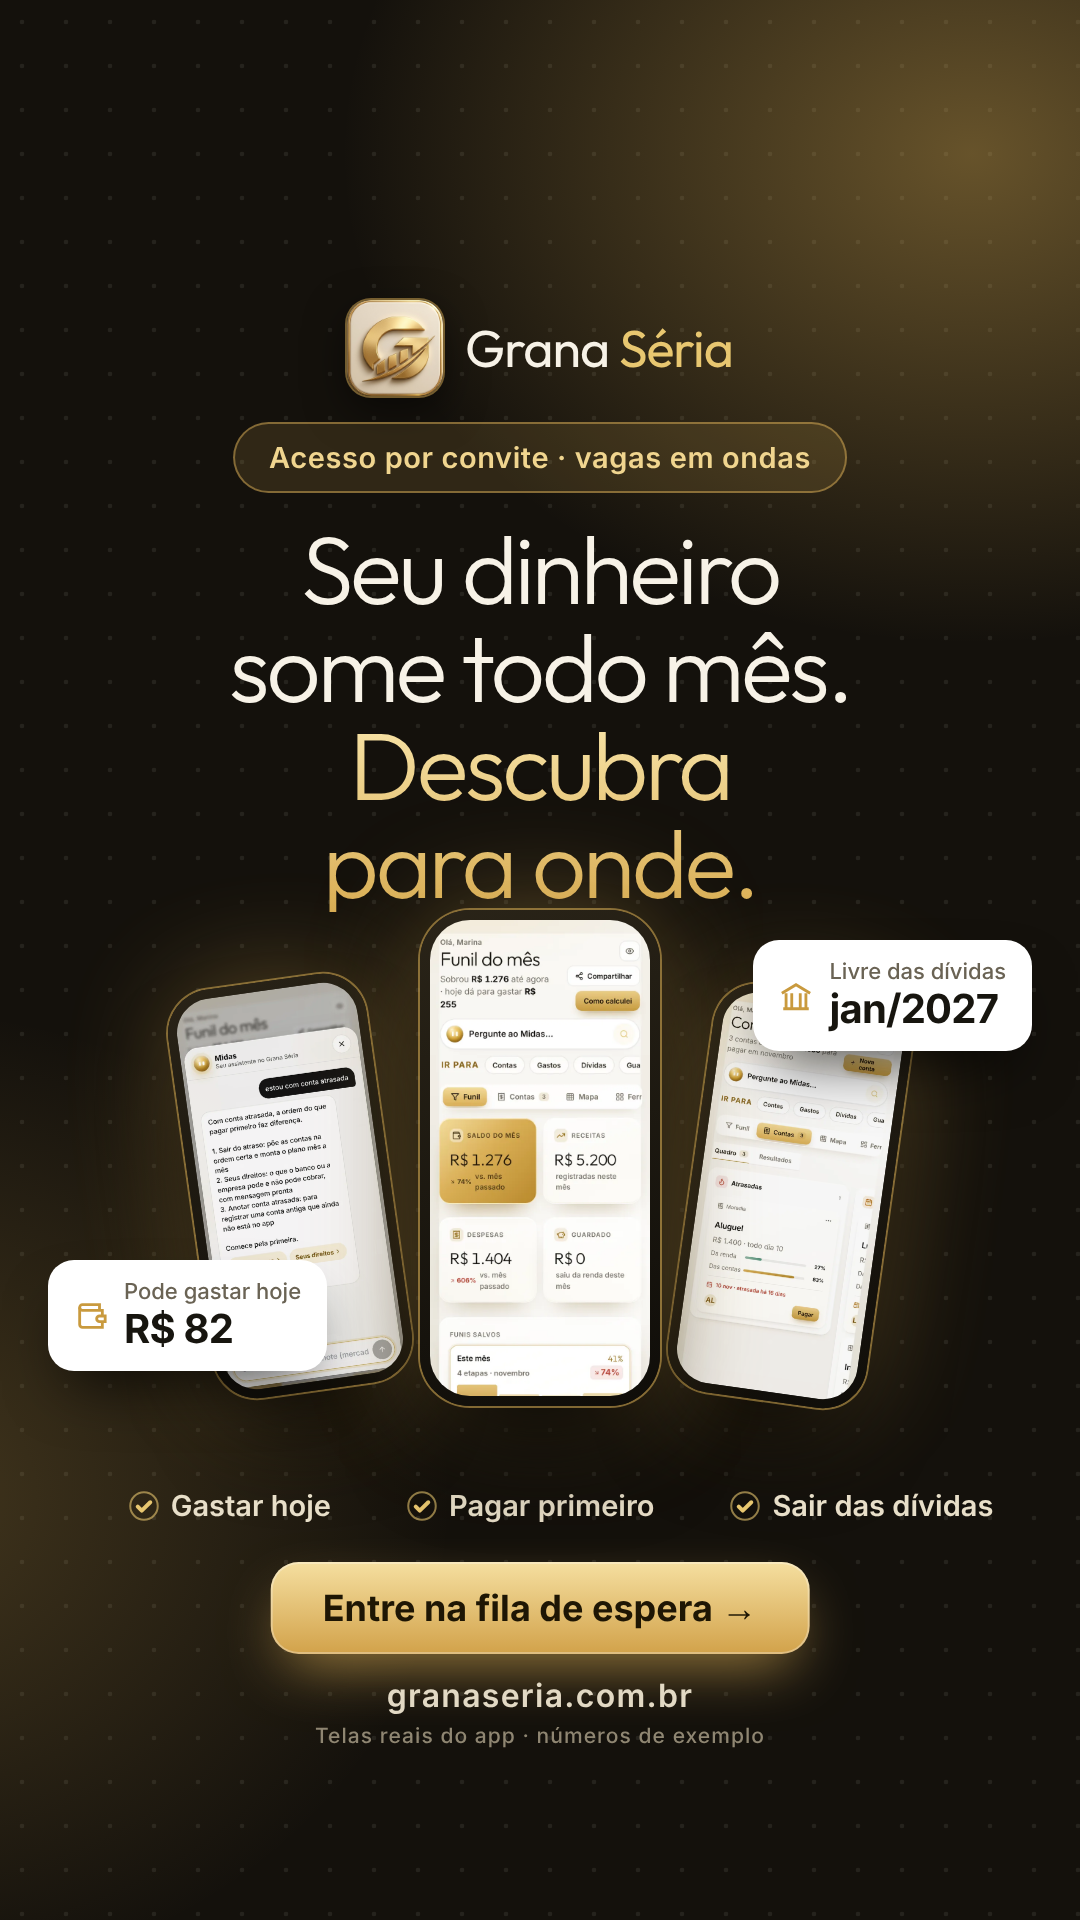
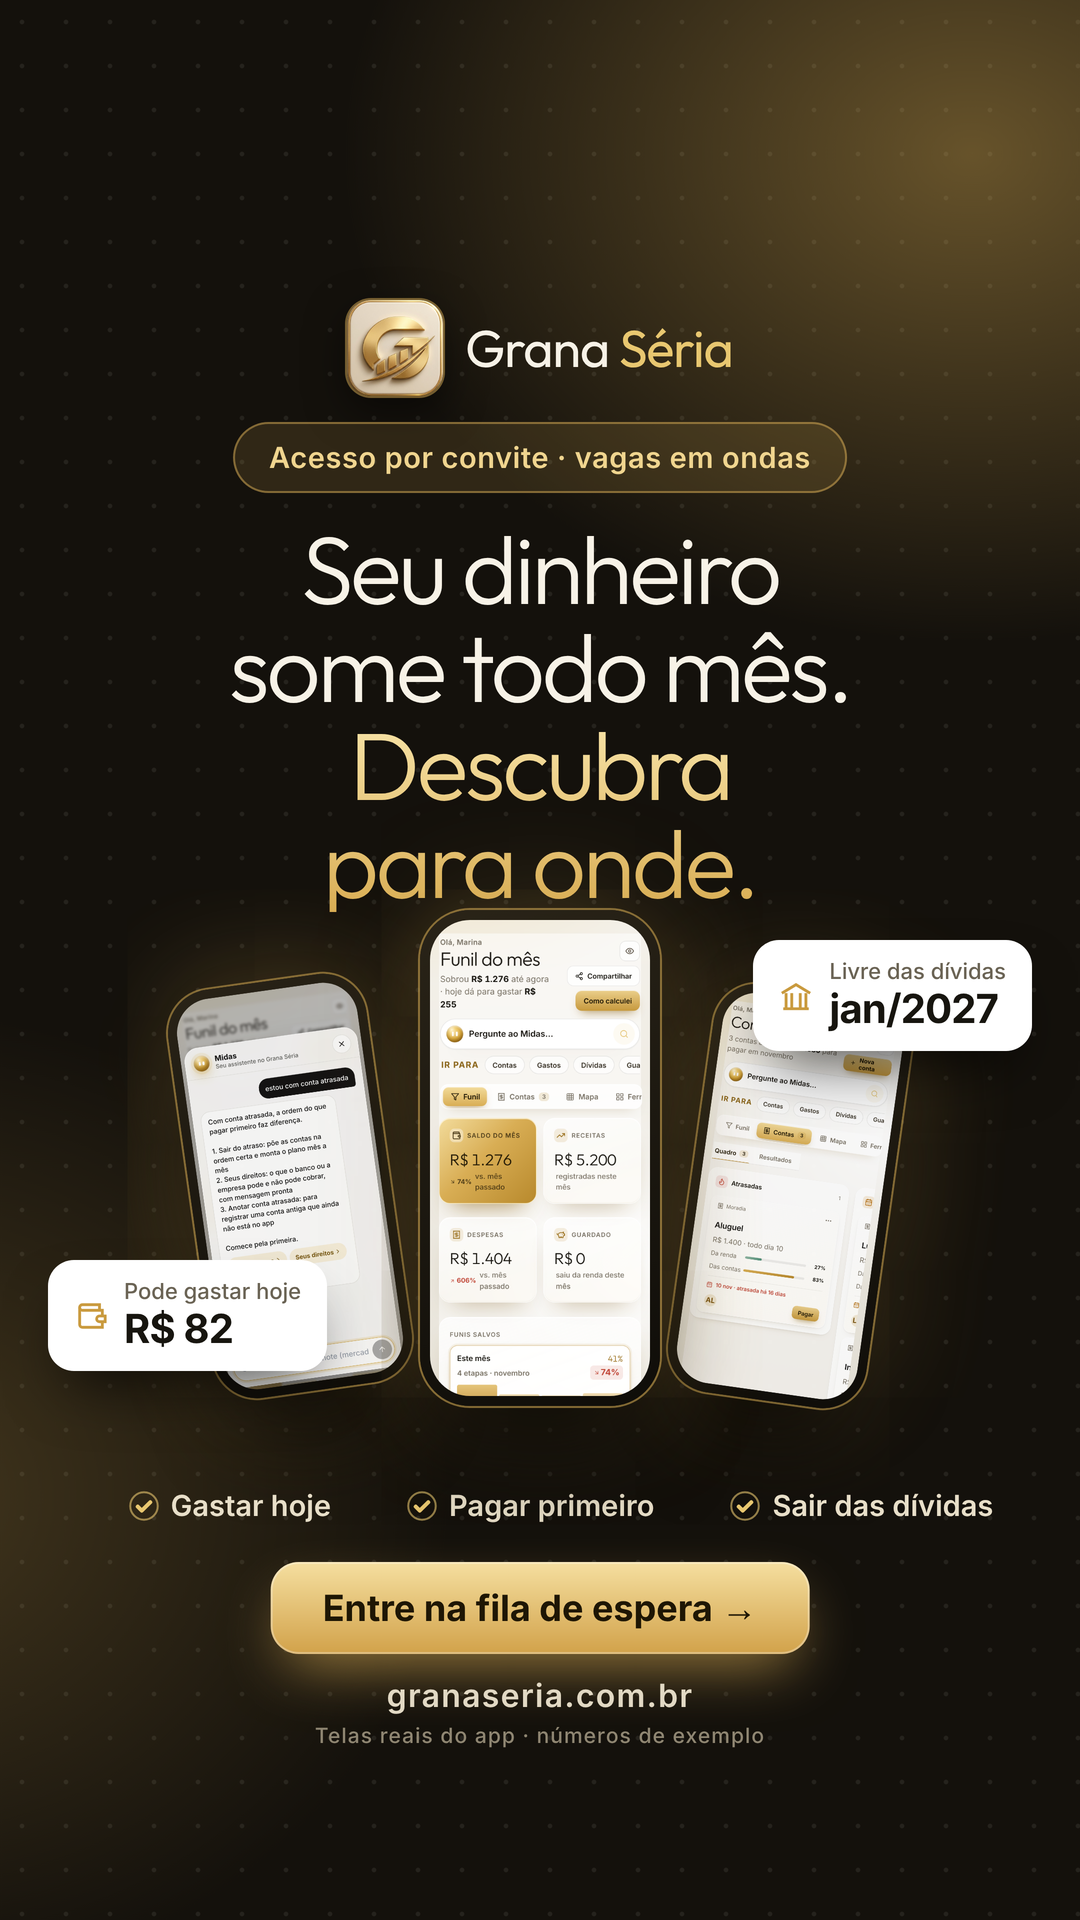
Stories em alta qualidade: telas do app capturadas em 3x, render em 2x e redução Lanczos para 1080x1920
Claude-Session: https://claude.ai/code/session_01FdAVQZfvSiYJVAycJVHun4

Changed region(s): [[0.2139, 0.5938, 0.2444, 0.625]]

diff --git a/divulgacao/.fonte/story.html b/divulgacao/.fonte/story.html
@@ -35,9 +35,9 @@ h1 em{display:block;font-style:normal;background:linear-gradient(180deg,#F8E4A8,
 <div class="selo" id="selo">Acesso por convite · vagas em ondas</div>
 <h1 id="h1"></h1>
 <div class="palco">
- <div class="fone b"><img src="midas.webp"></div>
- <div class="fone c"><img src="contas.webp"></div>
- <div class="fone a"><img src="funil.webp"></div>
+ <div class="fone b"><img src="midas-3x.png"></div>
+ <div class="fone c"><img src="contas-3x.png"></div>
+ <div class="fone a"><img src="funil-3x.png"></div>
  <div class="chip c1"><svg width="34" height="34" viewBox="0 0 24 24" fill="none" stroke="#C99A3E" stroke-width="2"><path d="M20 12V8H6a2 2 0 0 1 0-4h12v4"/><path d="M4 6v12a2 2 0 0 0 2 2h14v-4"/><path d="M18 12a2 2 0 0 0 0 4h4v-4Z"/></svg><div><small>Pode gastar hoje</small><strong>R$ 82</strong></div></div>
  <div class="chip c2"><svg width="34" height="34" viewBox="0 0 24 24" fill="none" stroke="#C99A3E" stroke-width="2"><path d="M3 21h18M5 21V10m4 11V10m6 11V10m4 11V10M2 10l10-6 10 6"/></svg><div><small>Livre das dívidas</small><strong>jan/2027</strong></div></div>
 </div>
